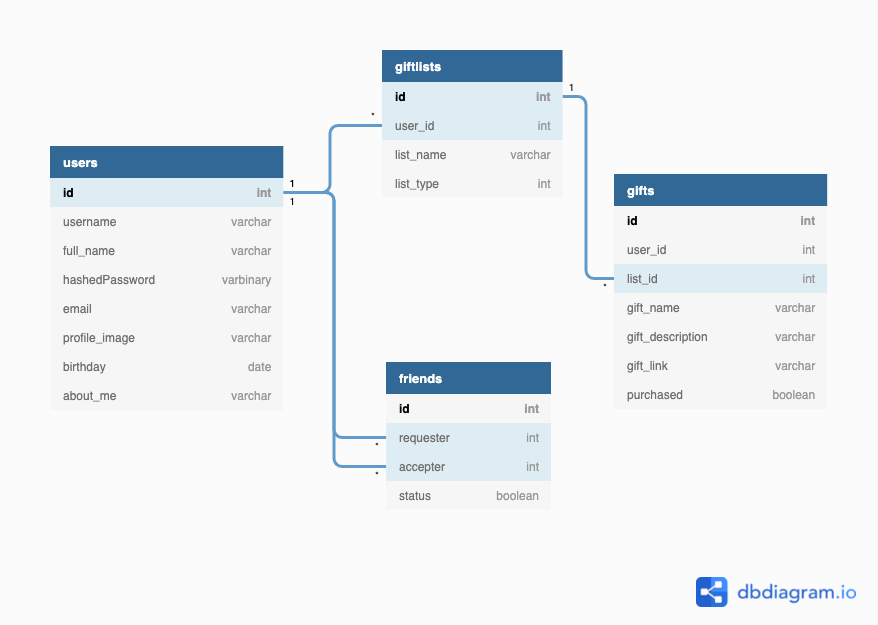
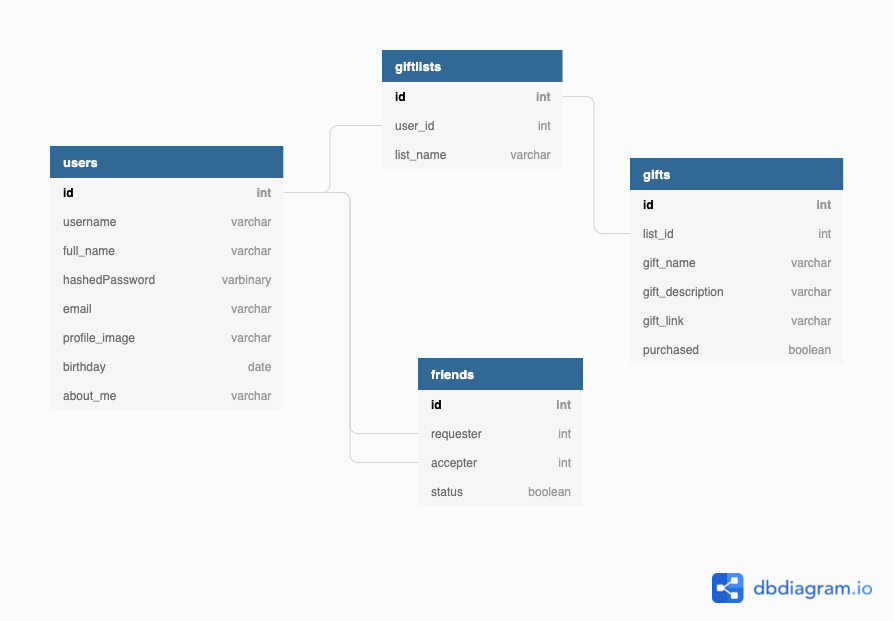
models and relationships complete

diff --git a/migrations/versions/20210630_125756_.py b/migrations/versions/20210630_125756_.py
@@ -1,0 +1,69 @@
+"""empty message
+
+Revision ID: 017423263dce
+Revises: 
+Create Date: 2021-06-30 12:57:56.506132
+
+"""
+from alembic import op
+import sqlalchemy as sa
+
+
+# revision identifiers, used by Alembic.
+revision = '017423263dce'
+down_revision = None
+branch_labels = None
+depends_on = None
+
+
+def upgrade():
+    # ### commands auto generated by Alembic - please adjust! ###
+    op.create_table('users',
+    sa.Column('id', sa.Integer(), nullable=False),
+    sa.Column('username', sa.String(length=40), nullable=False),
+    sa.Column('full_name', sa.String(length=100), nullable=False),
+    sa.Column('hashed_password', sa.String(length=256), nullable=False),
+    sa.Column('email', sa.String(length=256), nullable=False),
+    sa.Column('profile_image', sa.String(length=256), nullable=True),
+    sa.Column('birthday', sa.Date(), nullable=True),
+    sa.Column('about_me', sa.String(length=500), nullable=False),
+    sa.PrimaryKeyConstraint('id'),
+    sa.UniqueConstraint('email'),
+    sa.UniqueConstraint('username')
+    )
+    op.create_table('friends',
+    sa.Column('id', sa.Integer(), nullable=False),
+    sa.Column('requester', sa.Integer(), nullable=True),
+    sa.Column('accepter', sa.Integer(), nullable=True),
+    sa.Column('status', sa.Boolean(), nullable=True),
+    sa.ForeignKeyConstraint(['accepter'], ['users.id'], ),
+    sa.ForeignKeyConstraint(['requester'], ['users.id'], ),
+    sa.PrimaryKeyConstraint('id')
+    )
+    op.create_table('giftlists',
+    sa.Column('id', sa.Integer(), nullable=False),
+    sa.Column('user_id', sa.Integer(), nullable=False),
+    sa.Column('list_name', sa.String(length=50), nullable=False),
+    sa.ForeignKeyConstraint(['user_id'], ['users.id'], ),
+    sa.PrimaryKeyConstraint('id')
+    )
+    op.create_table('gifts',
+    sa.Column('id', sa.Integer(), nullable=False),
+    sa.Column('list_id', sa.Integer(), nullable=False),
+    sa.Column('gift_name', sa.String(length=100), nullable=False),
+    sa.Column('gift_description', sa.String(length=256), nullable=False),
+    sa.Column('gift_link', sa.String(length=256), nullable=True),
+    sa.Column('purchased', sa.Boolean(), nullable=False),
+    sa.ForeignKeyConstraint(['list_id'], ['giftlists.id'], ),
+    sa.PrimaryKeyConstraint('id')
+    )
+    # ### end Alembic commands ###
+
+
+def downgrade():
+    # ### commands auto generated by Alembic - please adjust! ###
+    op.drop_table('gifts')
+    op.drop_table('giftlists')
+    op.drop_table('friends')
+    op.drop_table('users')
+    # ### end Alembic commands ###

diff --git a/app/models/user.py b/app/models/user.py
@@ -8,12 +8,17 @@ class User(db.Model, UserMixin):
 
     id = db.Column(db.Integer, primary_key=True)
     username = db.Column(db.String(40), nullable=False, unique=True)
-    full_name = db.Column(db.String(40), nullable=False)
-    hashed_password = db.Column(db.String(255), nullable=False)
+    full_name = db.Column(db.String(100), nullable=False)
+    hashed_password = db.Column(db.String(256), nullable=False)
     email = db.Column(db.String(256), nullable=False, unique=True)
     profile_image = db.Column(db.String(256))
     birthday = db.Column(db.Date())
     about_me = db.Column(db.String(500), nullable=False)
+
+    user_id_rel = db.relationship('Giftlist', backref='userId', lazy='dynamic', foreign_keys='Giftlist.user_id')
+
+    requester_rel = db.relationship('Friend', backref='requesterId', lazy='dynamic', foreign_keys='Friend.requester')
+    accepter_rel = db.relationship('Friend', backref='accepterId', lazy='dynamic', foreign_keys='Friend.accepter')
 
     @property
     def password(self):

diff --git a/app/models/gift.py b/app/models/gift.py
@@ -1,0 +1,13 @@
+from .db import db
+from sqlalchemy.schema import ForeignKey
+
+
+class Gift(db.Model):
+    __tablename__ = 'gifts'
+
+    id = db.Column(db.Integer, primary_key=True)
+    list_id = db.Column(db.Integer, ForeignKey('giftlists.id'), nullable=False)
+    gift_name = db.Column(db.String(100), nullable=False)
+    gift_description = db.Column(db.String(256), nullable=False)
+    gift_link = db.Column(db.String(256))
+    purchased = db.Column(db.Boolean, default=False, nullable=False)

diff --git a/app/models/giftlist.py b/app/models/giftlist.py
@@ -1,0 +1,11 @@
+from .db import db
+from sqlalchemy.schema import ForeignKey
+
+class Giftlist(db.Model):
+    __tablename__ = 'giftlists'
+
+    id = db.Column(db.Integer, primary_key=True)
+    user_id = db.Column(db.Integer, ForeignKey('users.id'), nullable=False)
+    list_name = db.Column(db.String(50), nullable=False)
+
+    giftlist_user_id_rel = db.relationship('Gift', backref='giftlist_userId', lazy='dynamic', foreign_keys='Gift.list_id')

diff --git a/app/models/friend.py b/app/models/friend.py
@@ -1,0 +1,10 @@
+from .db import db
+from sqlalchemy.schema import ForeignKey
+
+class Friend(db.Model):
+    __tablename__ = 'friends'
+
+    id = db.Column(db.Integer, primary_key=True)
+    requester = db.Column(db.Integer, db.ForeignKey("users.id"))
+    accepter = db.Column(db.Integer, db.ForeignKey("users.id"))
+    status = db.Column(db.Boolean, default=False)

diff --git a/app/models/__init__.py b/app/models/__init__.py
@@ -1,2 +1,5 @@
 from .db import db
 from .user import User
+from .giftlist import Giftlist
+from .friend import Friend
+from .gift import Gift
